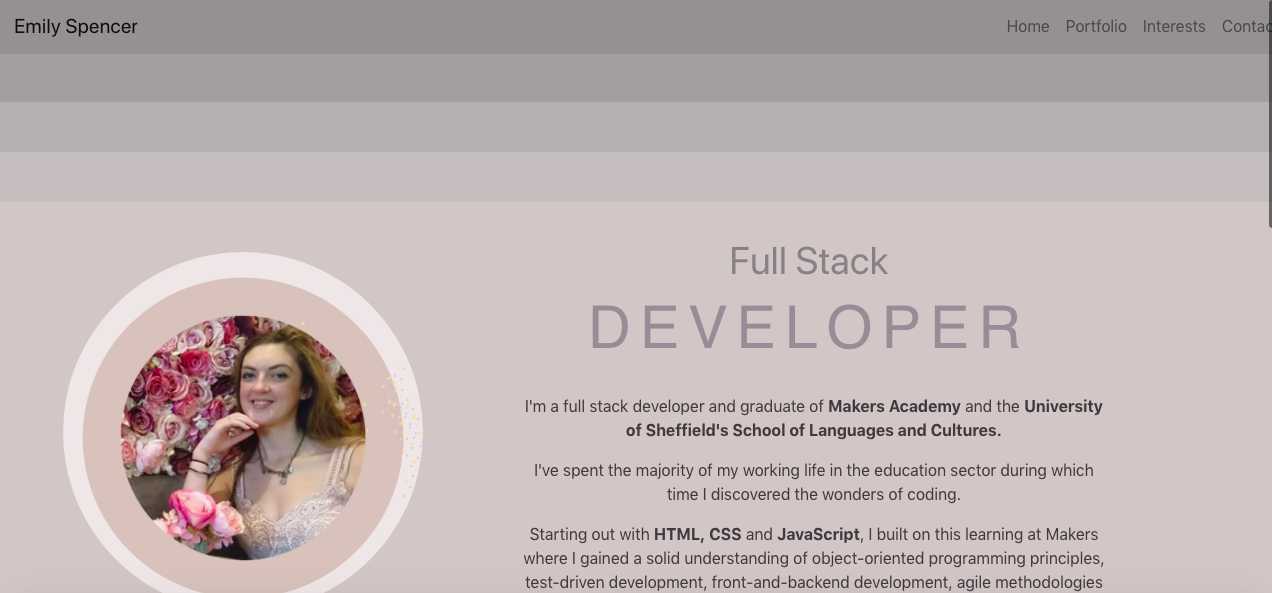
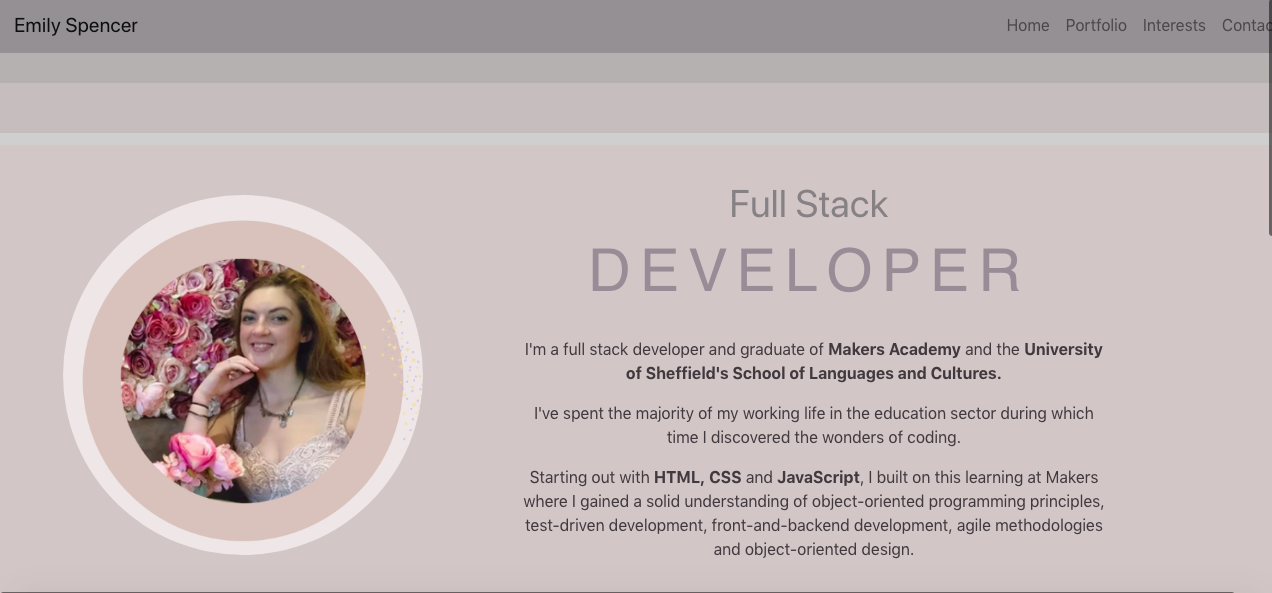
Updates screenshots

diff --git a/src/website/About.js b/src/website/About.js
@@ -24,6 +24,7 @@ const About = () => {
     <>
    <Header3 />
     <div className="body">
+    <div className="strip"></div>
         <div className="welcome" id="home">
           <div className="container">
         <Animated animationInDuration="4000" animationIn="fadeIn" animationOut="fadeOut" isVisible={true}>

diff --git a/src/website/Portfolio2.js b/src/website/Portfolio2.js
@@ -15,6 +15,7 @@ const Portfolio2 = () => {
         <>
             <Header3/>
             <div className="main2">
+            <div className="strip"></div>
             <p className="work">Portfolio</p>
             <p id="click">Click on each card to find out more about the projects</p>
             <br />

diff --git a/src/website/Portfolio2.css b/src/website/Portfolio2.css
@@ -8,6 +8,11 @@
     
 }
 
+.strip {
+    background-color: rgb(207, 207, 207);
+    height: 12px;
+  }
+
 #click {
     color: rgb(104, 102, 102);
     font-family: Times New Roman;

diff --git a/src/website/About.css b/src/website/About.css
@@ -10,6 +10,11 @@
   right: 2000px;
 }
 
+.strip {
+  background-color: rgb(207, 207, 207);
+  height: 12px;
+}
+
 
 .typical {
   font-size: 60px;

diff --git a/src/website/Header.css b/src/website/Header.css
@@ -11,7 +11,7 @@
 
 .greystrip {
     background-color: rgb(187, 168, 168);
-    height: 30px;
+    height: 20px;
 }
 
 .greystrip3 {
